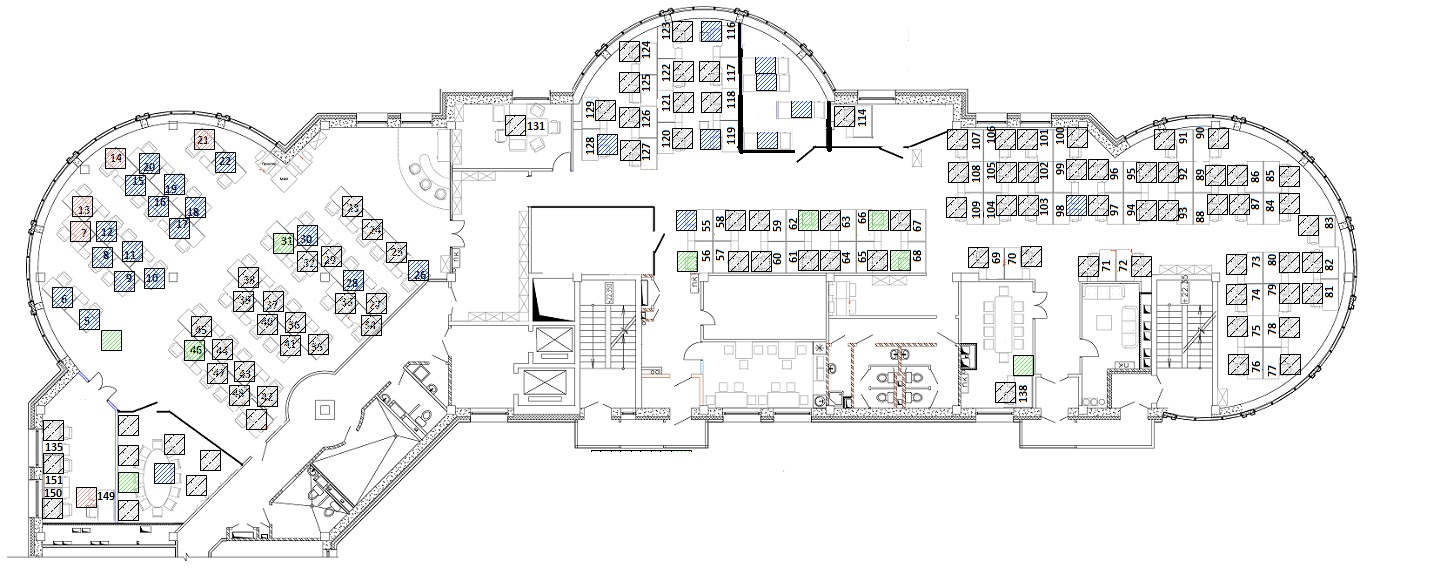
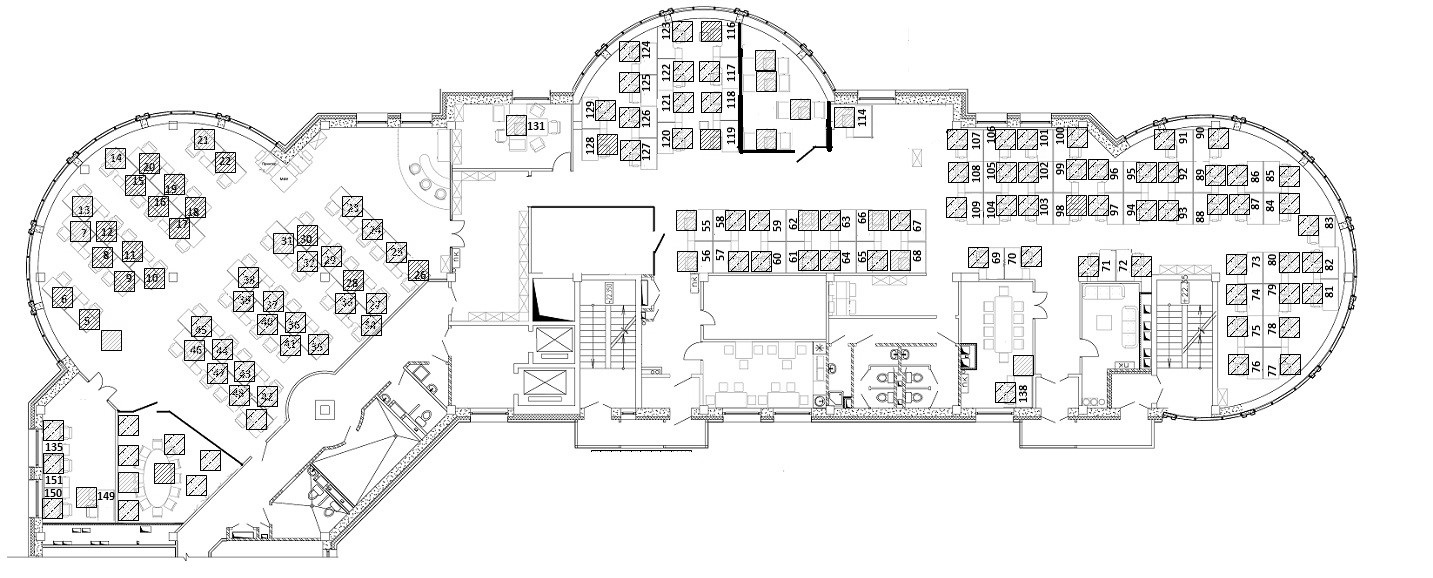
правки по оформлению

diff --git a/src/const.js b/src/const.js
@@ -10,7 +10,7 @@ const workedPlaceOnOffice = {
     otdel: `выбрать`,
     gender: `выбрать`,
     coordinateX: 62,
-    coordinateY: 520
+    coordinateY: 475
   },
   {
     id: `5`,
@@ -20,7 +20,7 @@ const workedPlaceOnOffice = {
     otdel: `выбрать`,
     gender: `выбрать`,
     coordinateX: 42,
-    coordinateY: 500
+    coordinateY: 455
   },
   {
     id: `6`,
@@ -30,7 +30,7 @@ const workedPlaceOnOffice = {
     otdel: `выбрать`,
     gender: `выбрать`,
     coordinateX: 22,
-    coordinateY: 480
+    coordinateY: 440
   },
   {
     id: `7`,
@@ -40,7 +40,7 @@ const workedPlaceOnOffice = {
     otdel: `выбрать`,
     gender: `выбрать`,
     coordinateX: 34,
-    coordinateY: 430
+    coordinateY: 385
   },
   {
     id: `8`,
@@ -50,7 +50,7 @@ const workedPlaceOnOffice = {
     otdel: `выбрать`,
     gender: `выбрать`,
     coordinateX: 52,
-    coordinateY: 455
+    coordinateY: 405
   },
   {
     id: `9`,
@@ -59,8 +59,8 @@ const workedPlaceOnOffice = {
     departmens: `выбрать`,
     otdel: `выбрать`,
     gender: `выбрать`,
-    coordinateX: 71,
-    coordinateY: 470
+    coordinateX: 72,
+    coordinateY: 425
   },
   {
     id: `55`,
@@ -79,7 +79,7 @@ const workedPlaceOnOffice = {
     sistemnik: false,
     telephone: false,
     coordinateX: 542,
-    coordinateY: 422
+    coordinateY: 375
   },
   {
     id: `56`,
@@ -94,7 +94,7 @@ const workedPlaceOnOffice = {
     description: `А ты и незнаешь`,
[1 lines of base64/hex data omitted]
     coordinateX: 544,
-    coordinateY: 450
+    coordinateY: 405
   },
   {
     id: `58`,
@@ -109,7 +109,7 @@ const workedPlaceOnOffice = {
     description: `Федор красавчик !!`,
[1 lines of base64/hex data omitted]
     coordinateX: 585,
-    coordinateY: 420
+    coordinateY: 375
   },
   {
     id: `116`,
@@ -124,7 +124,7 @@ const workedPlaceOnOffice = {
     description: `Тут я !`,
[1 lines of base64/hex data omitted]
     coordinateX: 566,
-    coordinateY: 260,
+    coordinateY: 215,
     notebook: true,
     apllebook: true,
     sistemnik: true,
@@ -143,7 +143,7 @@ const workedPlaceOnOffice = {
     description: `Очень воспитанный хвостик.`,
[1 lines of base64/hex data omitted]
     coordinateX: 604,
-    coordinateY: 420
+    coordinateY: 375
   },
   {
     id: `62`,
@@ -158,7 +158,7 @@ const workedPlaceOnOffice = {
     description: `Самая красивая женщина.`,
[1 lines of base64/hex data omitted]
     coordinateX: 646,
-    coordinateY: 420
+    coordinateY: 375
   },
   {
     id: `63`,
@@ -173,7 +173,7 @@ const workedPlaceOnOffice = {
     description: `Самый мурчащий`,
[1 lines of base64/hex data omitted]
     coordinateX: 662,
-    coordinateY: 420
+    coordinateY: 375
   },
   {
     id: `57`,
@@ -188,7 +188,7 @@ const workedPlaceOnOffice = {
     description: `Самый Богдашний`,
[1 lines of base64/hex data omitted]
     coordinateX: 588,
-    coordinateY: 449.5
+    coordinateY: 405
   }
   ],
   "Ekaterinburg 901": [{
@@ -208,7 +208,7 @@ const workedPlaceOnOffice = {
     description: `Блок Т`,
[1 lines of base64/hex data omitted]
     coordinateX: 999,
-    coordinateY: 330
+    coordinateY: 290
   },
   {
     id: `63`,
@@ -227,7 +227,7 @@ const workedPlaceOnOffice = {
     description: `Должность может сюда ?`,
[1 lines of base64/hex data omitted]
     coordinateX: 1072.13330078125,
-    coordinateY: 381.5
+    coordinateY: 340
   }
   ],
   "Ryazan": [],

diff --git a/src/components/map-filter/map_filter.jsx b/src/components/map-filter/map_filter.jsx
@@ -22,7 +22,6 @@ class MapFilter extends PureComponent {
   }
 
   handleFilter() {
-    console.log(`Сработал фильтр: ` + this.notebook.current.value);
     const {handleFilterChange} = this.props;
     handleFilterChange({
       company: this.companyRef.current.value,
@@ -83,16 +82,16 @@ class MapFilter extends PureComponent {
 
           <fieldset id="work-features" className="map__features" onChange={this.handleFilter}>
             <input type="checkbox" name="features" value="notebook" id="filter-notebook"
-              className="map__checkbox visually-hidden" ref={this.notebook}/>
+              className="map__checkbox visually-hidden" ref={this.notebook} />
             <label className="map__feature map__feature--notebook" htmlFor="filter-notebook">Ноутбук</label>
             <input type="checkbox" name="features" value="apllebook" id="filter-apllebook"
-              className="map__checkbox visually-hidden" ref={this.apllebook}/>
+              className="map__checkbox visually-hidden" ref={this.apllebook} />
             <label className="map__feature map__feature--apllebook" htmlFor="filter-apllebook">Макбук</label>
             <input type="checkbox" name="features" value="sistemnik" id="filter-sistemnik"
-              className="map__checkbox visually-hidden" ref={this.sistemnik}/>
+              className="map__checkbox visually-hidden" ref={this.sistemnik} />
             <label className="map__feature map__feature--sistemnik" htmlFor="filter-sistemnik">Системный блок</label>
             <input type="checkbox" name="features" value="telephone" id="filter-telephone"
-              className="map__checkbox visually-hidden" ref={this.telephone}/>
+              className="map__checkbox visually-hidden" ref={this.telephone} />
             <label className="map__feature map__feature--telephone" htmlFor="filter-telephone">Рабочий телефон</label>
           </fieldset>
         </form>

diff --git a/css/style.css b/css/style.css
@@ -144,7 +144,6 @@ fieldset {
 /**
    * Метка объявления
    */
-
 .map__pin {
   position: absolute;
   z-index: 1;
@@ -156,12 +155,23 @@ fieldset {
 
   border: 0;
   background: none;
+  cursor: pointer;
 }
 
 .map__pin:focus {
   outline: none;
   -webkit-filter: drop-shadow(0 0 5px red);
   filter: drop-shadow(0 0 5px red);
+}
+
+
+.map__pin span {
+  z-index: 2;
+  color: #000000;
+  background-color: white;
+  display: inline-block;
+  width: 100%;
+  font-size: 13px;
 }
 
 .map__pin img {
@@ -186,8 +196,7 @@ fieldset {
   top: 0;
   left: 0;
 
-  /* background-image: url("../img/pins.svg"); */
-  border: 1px solid orange;
+  border: 2px solid orange;
   background-repeat: no-repeat;
   background-position: 0 -9px;
 }
@@ -195,7 +204,7 @@ fieldset {
 .map__pin:not(.map__pin--main):hover::after,
 .map__pin:not(.map__pin--main):active::after,
 .map__pin--active:not(.map__pin--main)::after {
-  background-position: 0 -88px;
+  box-shadow: 0 0 15px 15px rgba(22, 202, 31, 0.7);
 }
 
 .map__pin:active img,
@@ -588,9 +597,11 @@ fieldset {
   display: block;
   padding-bottom: 5px;
 }
+
 .popup-form__element {
   display: flex;
 }
+
 .popup-form__element input,
 .popup-form__element select,
 .popup-form__element textarea {
@@ -843,6 +854,7 @@ fieldset {
   background-color: white;
   border: 4px solid #ffaa99;
   border-radius: 8px;
+  cursor: pointer;
 }
 
 .ad-form__submit:hover,

diff --git a/src/reducer/data-reducer/data-reducer.js b/src/reducer/data-reducer/data-reducer.js
@@ -1,6 +1,10 @@
-import {workedPlaceOnOffice} from "../../const.js";
+import {
+  workedPlaceOnOffice
+} from "../../const.js";
 
-import {onSortPins} from "../../utils.js";
+import {
+  onSortPins
+} from "../../utils.js";
 
 // Определяем действия(actions)
 const ActionType = {
@@ -53,7 +57,6 @@ const dataReducer = (state = initialState, action) => {
     case ActionType.FILTER_OFFERS:
       let statePlaceRewriteForFilter = [...state.originalPlaces];
       let filter = action.payload;
-      console.log(filter);
       let filterPlaces = onSortPins(statePlaceRewriteForFilter, filter);
       return Object.assign({}, state, {
         places: filterPlaces

diff --git a/Readme.md b/Readme.md
@@ -1,11 +1,6 @@
 # Личный проект для планирование рабочих мест в офисе
 
-Возможность зайти через браузер
-Карточка р.м. - ФИО сотрудника, номер рабочего места,департамент,отдел и оборудование.
-
-
-Сделать:
-Добавить тесты ->
-Переписать на ТС->
+ 
 Выгрузка данных в Excell
+Загрузка данных из Excell
 
